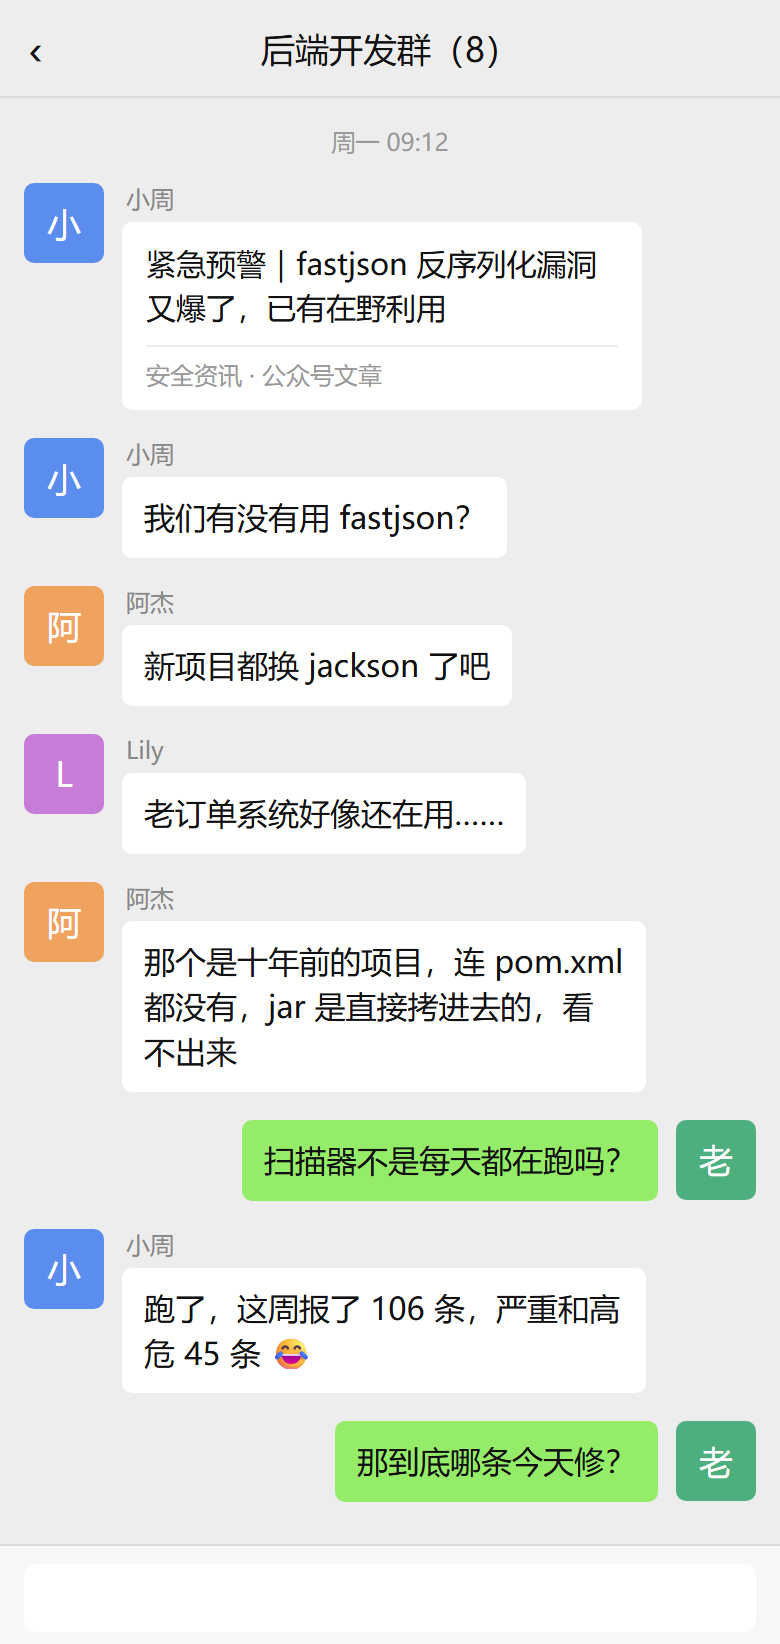
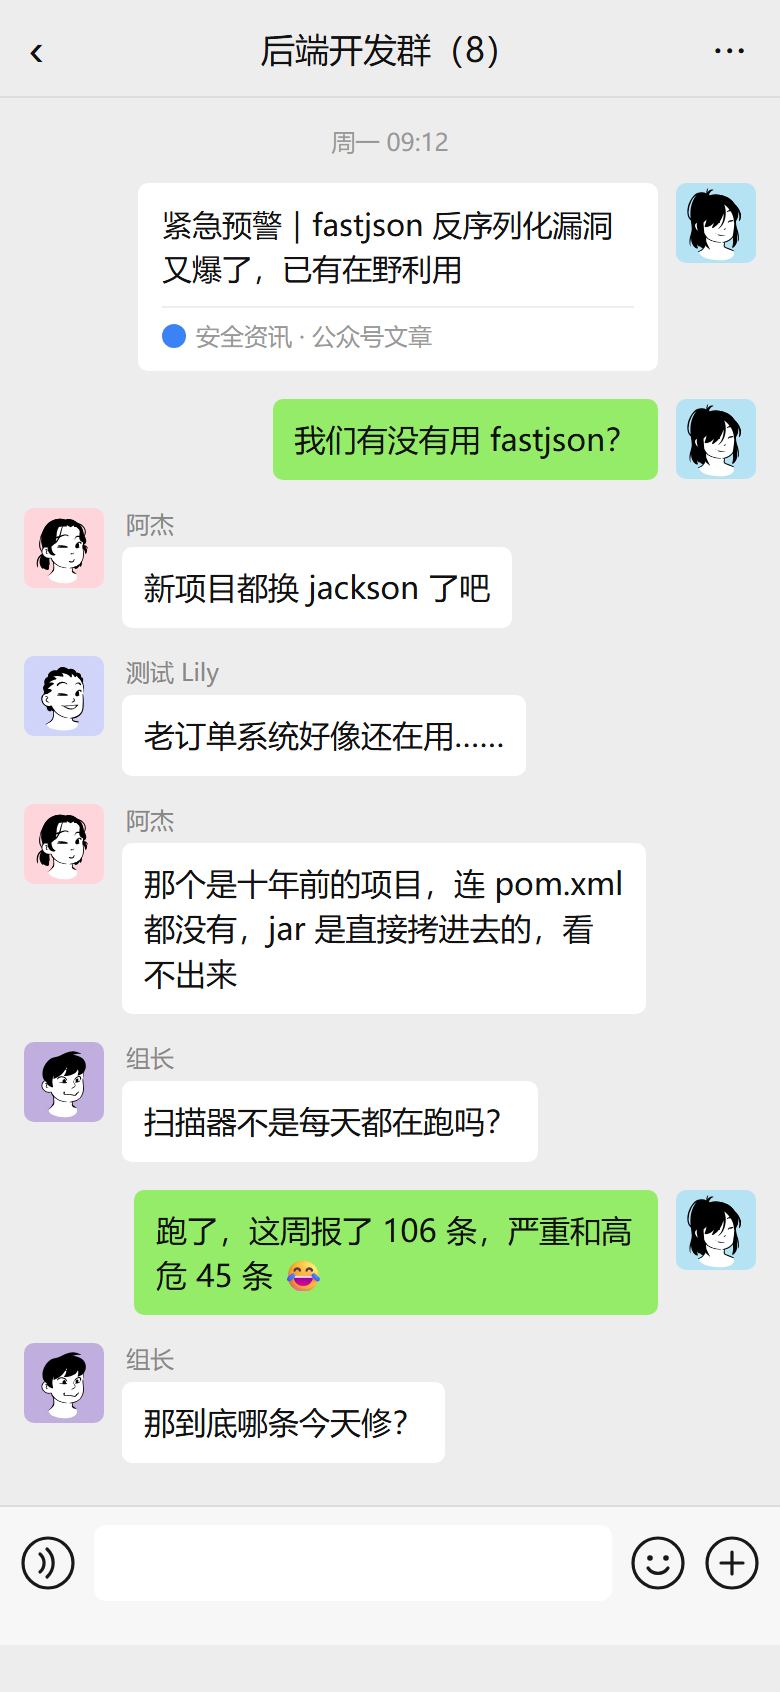
配图：大模型单独作答与元宝返回的对照、大模型补错编号的记录；群聊图换卡通头像
- ask_model.py：不带搜索结果直接问配置的大模型
- python -m sentinel.yuanbao "查询词"：查看一次录制的 SearchPro 调用（Key 打码）
- python -m sentinel.cache FILE：查看一次录制的大模型调用

diff --git a/sentinel/yuanbao.py b/sentinel/yuanbao.py
@@ -53,3 +53,19 @@ def search(query: str, freshness: str = "", cnt: str = "10", industry: str = "")
         pages.append({"title": p.get("title", ""), "url": p.get("url", ""), "site": p.get("site", ""),
                       "date": p.get("date", ""), "content": (p.get("content") or p.get("passage") or "")[:1800]})
     return {"request_id": root.get("RequestId"), "query": params, "pages": pages}
+
+
+if __name__ == "__main__":     # python -m sentinel.yuanbao "查询词": show one SearchPro call as it was recorded
+    import sys
+    from .cache import _key
+    sys.stdout.reconfigure(encoding="utf-8")
+    q = clean_query(sys.argv[1])
+    res = search(q)
+    rec = json.loads(_key("yuanbao", res["query"]).read_text(encoding="utf-8"))
+    print(f"POST {ENDPOINT}")
+    print("Authorization: Bearer ****（已打码）")
+    print(json.dumps(res["query"], ensure_ascii=False))
+    print(f"RequestId: {res['request_id']}    记录时间: {rec.get('recorded_at', '')}")
+    for i, p in enumerate(res["pages"][:4]):
+        print(f"[{i}] {p['site'] or p['url'].split('/')[2]} · {p['date'][:10]}")
+        print(f"    {p['title'][:60]}")

diff --git a/sentinel/cache.py b/sentinel/cache.py
@@ -82,3 +82,18 @@ def http_json(url: str, body: dict | None = None, headers: dict | None = None, t
                 raise RuntimeError(f"{url}: {e}") from e
         time.sleep(2 ** attempt)
     raise AssertionError("unreachable")
+
+
+if __name__ == "__main__":     # python -m sentinel.cache FILE: print one recorded model call (question and answer)
+    import re
+    import sys
+    sys.stdout.reconfigure(encoding="utf-8")
+    rec = json.loads(Path(sys.argv[1]).read_text(encoding="utf-8"))
+    msgs = rec["request"]["messages"]
+    user = msgs[-1]["content"]
+    m = re.search(r"用户原话：(.*)", user)
+    answer = re.sub(r"<think>.*?</think>", "", rec["response"]["choices"][0]["message"]["content"], flags=re.S).strip()
+    print(f"模型 {rec['request']['model']} · 记录时间 {rec['recorded_at']} · {rec['elapsed_ms']} ms")
+    print(f"问题：{m.group(1) if m else user[:80]}")
+    print("回答：")
+    print(answer)

diff --git a/ask_model.py b/ask_model.py
@@ -1,0 +1,23 @@
+"""Ask the configured model a question with no search results attached (used for the "model alone" comparison).
+
+  python ask_model.py "问题"
+"""
+
+import json
+import re
+import sys
+import time
+
+from sentinel import llm  # noqa: F401  (loads .env)
+from sentinel.cache import http_json
+import os
+
+if __name__ == "__main__":
+    sys.stdout.reconfigure(encoding="utf-8")
+    q = sys.argv[1]
+    body = {"model": os.environ["LLM_MODEL"], "temperature": 0.2, "messages": [{"role": "user", "content": q}]}
+    t = time.time()
+    r = http_json(os.environ["LLM_BASE_URL"].rstrip("/") + "/chat/completions", body, {}, 180)
+    text = re.sub(r"<think>.*?</think>", "", r["choices"][0]["message"]["content"], flags=re.S).strip()
+    print(f"[{os.environ['LLM_MODEL']}，没有搜索结果，{time.time() - t:.1f} 秒]")
+    print(text)
